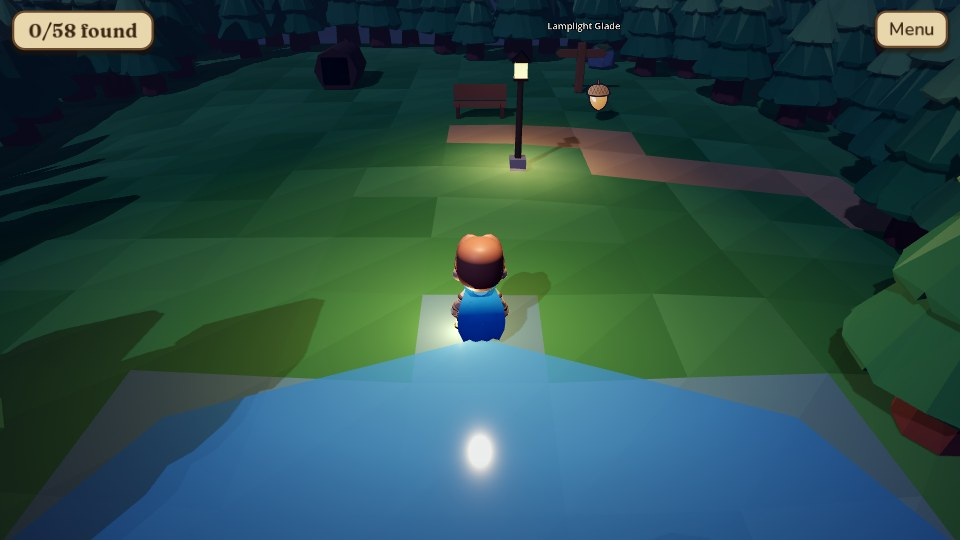
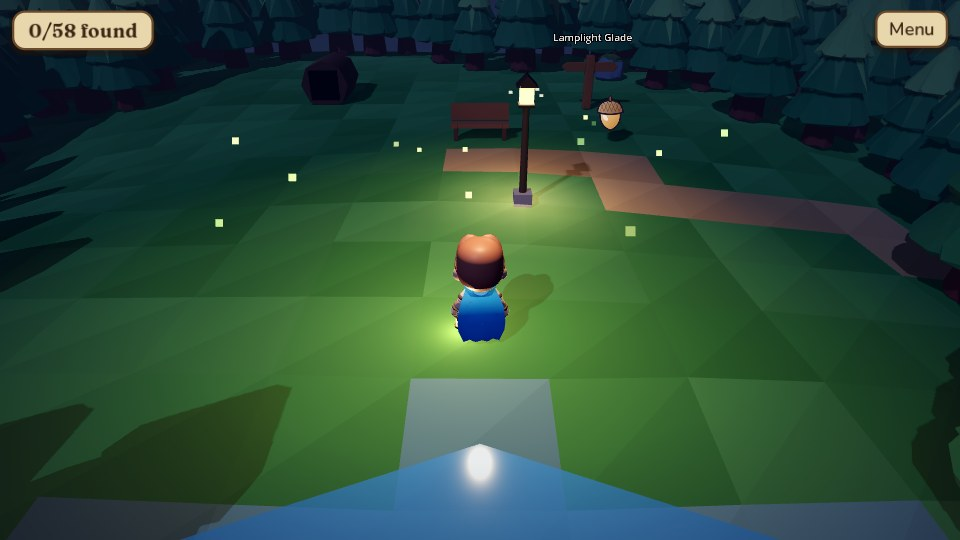
Keeper of the Hollow card: v0.16.0, new picture, description and release time
Claude-Session: https://claude.ai/code/session_0117TTYBHdUZpi256EJL4XkS

diff --git a/index.html b/index.html
@@ -79,11 +79,11 @@ footer{margin-top:40px;color:var(--soft);font-size:14px;text-align:center}
 </article>
 
 <article class="card" data-repo="keeper-of-the-hollow">
-<a class="shot" href="keeper-of-the-hollow/"><img src="images/keeper-of-the-hollow.jpg?v=0.15.0" alt="Keeper of the Hollow: the keeper holds a lantern by the high lake, with a lamp post and a bench in the Lamplight Glade" width="960" height="540" loading="lazy"></a>
+<a class="shot" href="keeper-of-the-hollow/"><img src="images/keeper-of-the-hollow.jpg?v=0.16.0" alt="Keeper of the Hollow: fireflies drift over the Lamplight Glade, with a lamp post and a bench" width="960" height="540" loading="lazy"></a>
 <div class="body">
 <div class="top"><h2><a href="keeper-of-the-hollow/">Keeper of the Hollow</a></h2><span class="tag">A cozy quest</span></div>
-<p class="desc">A storm put out the Waylight and took the sun with it. Carry your lantern through a lamp-lit Home Meadows, find treasures and make good neighbors to bring the light back. Play with touch, keys or an Xbox controller. No combat and no way to lose.</p>
-<p class="meta">Browser and Android<span class="ver"> · Version 0.15.0</span> <span class="upd">· Updated <time datetime="2026-11-16T10:43-06:00">Nov 16, 2026, 10:43 AM CT</time></span></p>
+<p class="desc">A storm put out the Waylight and took the sun with it. Carry your lantern through a lamp-lit Home Meadows full of fireflies, owls and frogs, find treasures and make good neighbors to bring the light back. Play with touch, keys or an Xbox controller. No combat and no way to lose.</p>
+<p class="meta">Browser and Android<span class="ver"> · Version 0.16.0</span> <span class="upd">· Updated <time datetime="2026-11-16T12:02-06:00">Nov 16, 2026, 12:02 PM CT</time></span></p>
 <div class="actions"><a class="btn" href="keeper-of-the-hollow/">Open game page</a></div>
 </div>
 </article>
